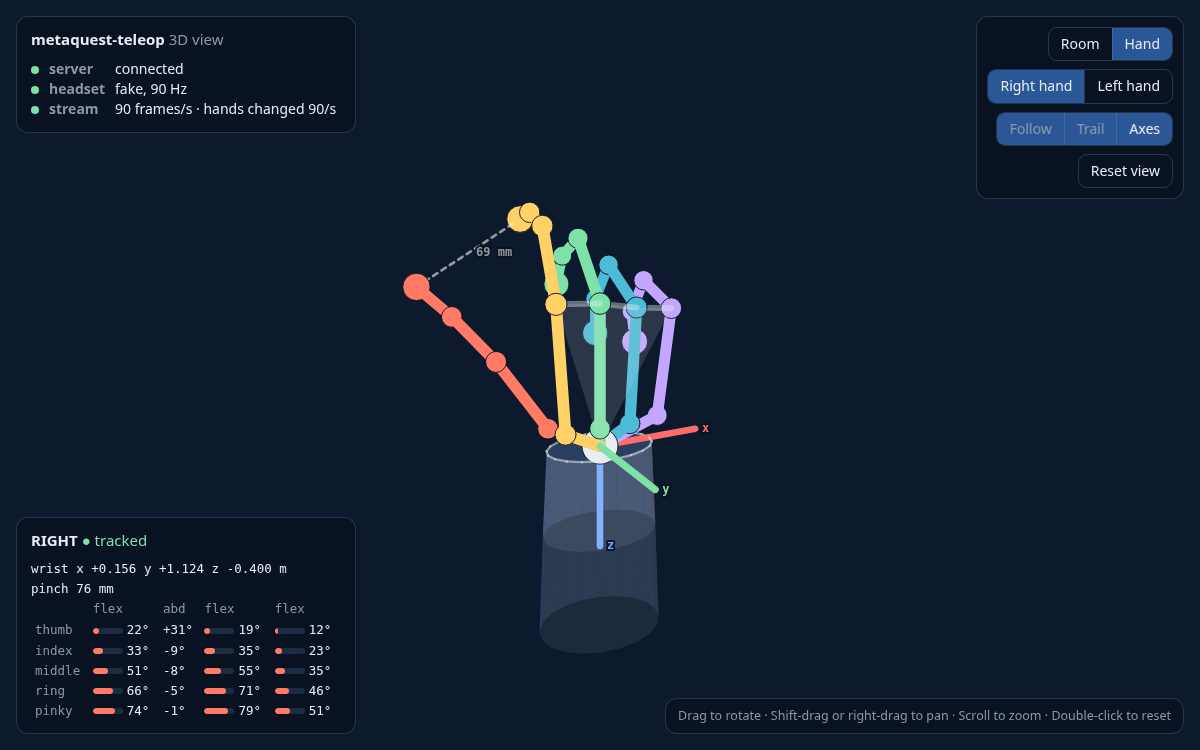
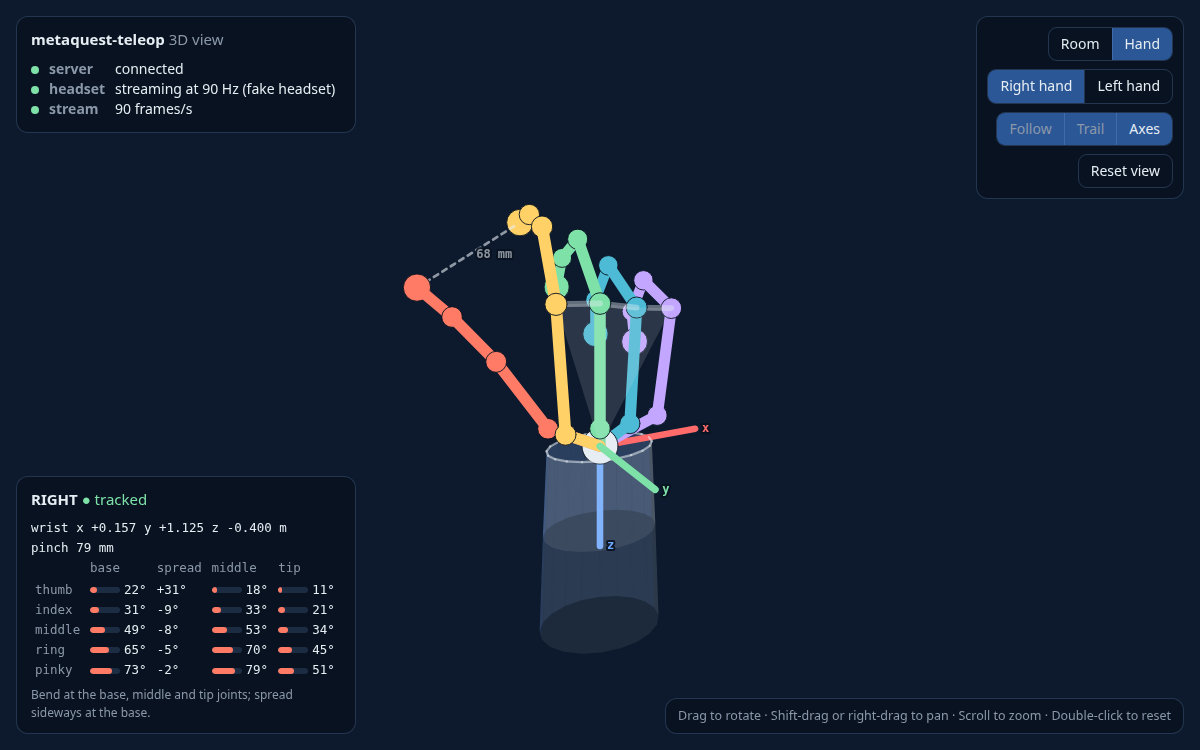
Plain words everywhere: API page, angles, dashboard and 3D view
- API page: no letter badges (C, M, A, P) in the outline; only the classes
  and names you use, each with one line saying what it is
- joint angles described as base, spread, middle and tip, with the medical
  names (CMC, MCP, PIP, DIP, flexion, abduction) given once, in the data page
- dashboard and 3D view: "streaming at 90 Hz" instead of "XR session ...,
  local-floor"; no "gap p95" or "hands changed"; plain angle headers
- diagram and docstrings without WebXR, adb reverse, WebSocket, local-floor

diff --git a/src/metaquest_teleop/view.html b/src/metaquest_teleop/view.html
@@ -50,6 +50,7 @@
   table.angles th { color: var(--dim); font-weight: 500; text-align: left; padding: 0 4px 2px; }
   table.angles td { padding: 1px 4px; white-space: nowrap; }
   table.angles td:first-child { color: var(--dim); }
+  .caption { color: var(--dim); font-size: 12px; margin-top: 6px; }
   .bar {
     display: inline-block; width: 30px; height: 6px; margin-right: 4px; border-radius: 3px;
     background: rgba(138, 180, 248, 0.16); vertical-align: middle; overflow: hidden;
@@ -103,9 +104,10 @@
   <div class="mono" id="hand-wrist">wrist –</div>
   <div class="mono" id="hand-pinch">pinch –</div>
   <table class="angles mono">
-    <thead><tr><th></th><th>flex</th><th>abd</th><th>flex</th><th>flex</th></tr></thead>
+    <thead><tr><th></th><th>base</th><th>spread</th><th>middle</th><th>tip</th></tr></thead>
     <tbody id="angles"></tbody>
   </table>
+  <div class="caption">Bend at the base, middle and tip joints; spread sideways at the base.</div>
 </div>
 
 <div class="panel" id="hint">Drag to rotate · Shift-drag or right-drag to pan · Scroll to zoom · Double-click to reset</div>
@@ -473,12 +475,13 @@ function updatePanels() {
   if (status && status.use_adb) setLine("usb", status.usb_ok || status.page ? "ok" : "bad", status.usb);
 
   if (!status || !status.page) setLine("headset", "warn", "waiting for the page");
-  else if (status.session === "started") setLine("headset", fresh() ? "ok" : "warn", `${status.mode}, ${status.fps} Hz`);
+  else if (status.session === "started") setLine("headset", fresh() ? "ok" : "warn",
+    `streaming at ${status.fps} Hz` + (status.mode === "fake" ? " (fake headset)" : ""));
   else setLine("headset", "warn", "page open: press Start in the headset");
 
   if (!everFrame) setLine("stream", "", "no frames yet");
   else if (!fresh()) setLine("stream", "warn", `no frames for ${age.toFixed(1)} s`);
-  else setLine("stream", "ok", status ? `${status.hz} frames/s · hands changed ${status.changed_hz}/s` : "receiving");
+  else setLine("stream", "ok", status ? `${status.hz} frames/s` : "receiving");
 
   const hand = frame && frame[state.side];
   const side = state.side.toUpperCase();

diff --git a/src/metaquest_teleop/server.py b/src/metaquest_teleop/server.py
@@ -57,24 +57,24 @@ class QuestHands:
 
     ::
 
-        with QuestHands() as quest:      # then open http://localhost:8012 in the Quest browser
+        with QuestHands() as quest:      # then press Start in the headset
             frame = quest.wait()         # the next frame from the headset
             frame.right.wrist.position   # metres
             frame.right.angles           # (5, 4) radians
 
-    The server listens on 127.0.0.1 only: the headset reaches it through ``adb reverse``, and
-    nothing else on the network can inject frames. Pass ``host="0.0.0.0"`` to change that.
+    Only this computer can connect (the headset comes in through the USB cable), so nothing
+    else on the network can send it frames.
 
     Parameters
     ----------
     port
-        Port of the page and the stream: the headset opens ``http://localhost:<port>``.
+        The port: the headset opens ``http://localhost:<port>``.
     adb
-        Keep the USB link up with ``adb reverse`` while no page is connected.
+        Set up the USB link to the headset automatically, with ``adb``.
     udp
-        ``(host, port)`` to also send every frame to, as one JSON datagram; None for no UDP.
+        ``(host, port)``: also send every frame there as JSON, over UDP. None for no UDP.
     host
-        The interface to listen on.
+        Who can connect: ``"127.0.0.1"`` is only this computer, ``"0.0.0.0"`` the network.
 
     Attributes
     ----------
@@ -181,11 +181,19 @@ class QuestHands:
             return self._latest if self.frames > seen else None
 
     def on_frame(self, callback: Callable[[Frame], None]) -> None:
-        """Call `callback(frame)` for every frame, on the receiving thread; keep it fast."""
+        """Call ``callback(frame)`` for every frame.
+
+        It runs in the background thread that receives the frames, so keep it fast.
+        """
         self._callbacks.append(callback)
 
     def rates(self) -> dict:
-        """frames/s over the last second, of which carried changed hand data, interval p95, age."""
+        """Statistics of the stream, as a dict.
+
+        ``hz``: frames in the last second. ``changed_hz``: how many of them carried new hand
+        data. ``interval_p95_ms``: time between frames, in ms, that 95% of frames beat.
+        ``age_ms``: age of the newest frame, in ms.
+        """
         now = time.perf_counter()
         with self._cond:
             arrivals = list(self._arrivals)
@@ -334,12 +342,11 @@ class QuestHands:
             state = msg.pop("session")
             self.headset.update(msg, session=state)
             if state == "started":
-                self._event(f"XR session started: {msg.get('mode')}, {msg.get('fps')} Hz, "
-                            f"{msg.get('space')}")
+                self._event(f"streaming started, {msg.get('fps')} Hz")
             elif state == "framerate":
                 self._event(f"frame rate now {msg.get('fps')} Hz")
             else:
-                self._event("XR session ended")
+                self._event("streaming stopped")
         if "stats" in msg:
             self.headset["stats"] = msg["stats"]
         if "error" in msg:

diff --git a/src/metaquest_teleop/dashboard.py b/src/metaquest_teleop/dashboard.py
@@ -55,8 +55,8 @@ def _status(quest: QuestHands) -> Panel:
     if not quest.connected:
         headset = Text.assemble(_dot(None), "waiting for the page to connect")
     elif info.get("session") == "started":
-        headset = Text.assemble(_dot(streaming), f"XR session: {info.get('mode')}, ",
-                                (f"{info.get('fps')} Hz", "bold"), f", {info.get('space')}")
+        headset = Text.assemble(_dot(streaming), "streaming at ", (f"{info.get('fps')} Hz", "bold"),
+                                " (fake headset)" if info.get("mode") == "fake" else "")
     else:
         headset = Text.assemble(_dot(None), "page open: press Start in the headset")
     grid.add_row("headset", headset)
@@ -66,11 +66,8 @@ def _status(quest: QuestHands) -> Panel:
     elif not streaming:
         stream = Text(f"no frames for {rates['age_ms'] / 1000:.1f} s  ({quest.frames:,} received)", style="yellow")
     else:
-        p95 = rates["interval_p95_ms"]
         stream = Text.assemble((f"{rates['hz']} frames/s", "bold green"),
-                               f"   hands changed in {rates['changed_hz']}/s",
-                               f"   gap p95 {p95:.1f} ms" if p95 is not None else "",
-                               (f"   {quest.frames:,} frames", "dim"))
+                               (f"   {quest.frames:,} received", "dim"))
     grid.add_row("stream", stream)
     if quest.udp is not None:
         grid.add_row("UDP", f"every frame as JSON to {quest.udp[0]}:{quest.udp[1]}")
@@ -93,10 +90,11 @@ def _hand(side: str, hand: Hand | None) -> Panel:
     info.add_row("pinch", f"{hand.pinch * 1000:.0f} mm")
 
     angles = Table(box=None, padding=(0, 1), header_style="dim", show_edge=False,
-                   caption="thumb: CMC, MCP, IP   fingers: MCP, PIP, DIP", caption_style="dim")
+                   caption="degrees of bend; spread is sideways at the base",
+                   caption_style="dim")
     angles.add_column("")
-    for name in ("flex", "abd", "flex", "flex"):
-        angles.add_column(name, justify="right" if name == "abd" else "left")
+    for name in ("base", "spread", "middle", "tip"):
+        angles.add_column(name, justify="right" if name == "spread" else "left")
     for finger, row in zip(FINGERS, np.degrees(hand.angles)):
         angles.add_row(finger, f"{_bar(row[0])}{_deg(row[0])}", _deg(row[1], True),
                        f"{_bar(row[2])}{_deg(row[2])}", f"{_bar(row[3])}{_deg(row[3])}")

diff --git a/src/metaquest_teleop/hands.py b/src/metaquest_teleop/hands.py
@@ -88,7 +88,7 @@ def _quat_multiply(a: np.ndarray, b: np.ndarray) -> np.ndarray:
 
 @dataclass(frozen=True, eq=False)
 class Pose:
-    """A position and an orientation, in the session's ``local-floor`` space."""
+    """A position and an orientation, in the room's coordinates (x right, y up, -z forward)."""
 
     #: (3,) position, metres.
     position: np.ndarray
@@ -136,13 +136,15 @@ class Hand:
 
     @cached_property
     def angles(self) -> np.ndarray:
-        """(5, 4) joint angles, radians: one row per finger, thumb to pinky.
+        """(5, 4) joint angles in radians: one row per finger, thumb to pinky.
 
-        Fingers: MCP flexion, MCP abduction, PIP flexion, DIP flexion. Thumb: CMC flexion,
-        CMC abduction (both of the metacarpal against the wrist), MCP flexion, IP flexion.
-        Flexion is positive towards the palm and abduction positive towards the thumb side,
-        on both hands. Each is the bend of a bone's direction against its parent joint's
-        axes, so a straight finger reads 0 and the thumb's CMC is not 0 at rest.
+        Columns: bend at the base of the finger, sideways spread at the base, bend at the
+        middle joint, bend at the joint nearest the tip. Bending towards the palm and spreading
+        towards the thumb are positive, on both hands. A straight finger reads 0; the thumb's
+        base does not, since it is measured against the wrist.
+
+        The medical names, used in :data:`ANGLE_NAMES`: thumb CMC flexion, CMC abduction, MCP
+        flexion, IP flexion; fingers MCP flexion, MCP abduction, PIP flexion, DIP flexion.
         """
         out = np.empty((5, 4))
         for col, bend in ((0, 0), (2, 1), (3, 2)):
@@ -161,7 +163,10 @@ class Hand:
 
     @cached_property
     def local_quaternions(self) -> np.ndarray:
-        """(25, 4) each joint's rotation relative to its parent joint (PARENT); the wrist's is absolute."""
+        """(25, 4) each joint's rotation relative to the joint before it, towards the wrist.
+
+        The wrist's is its rotation in the room.
+        """
         q = self.quaternions / np.linalg.norm(self.quaternions, axis=-1, keepdims=True)
         parent = q[[max(p, 0) for p in PARENT]] * np.array([-1.0, -1.0, -1.0, 1.0])
         local = _quat_multiply(parent, q)

diff --git a/docs/conf.py b/docs/conf.py
@@ -28,7 +28,9 @@ html_favicon = "_static/favicon.svg"
 # Tooltips of API objects without their synopsis, which the theme joins with an em dash.
 # The page outline lists classes, functions and attributes, not their parameters and fields.
 object_description_options = [
-    ("py:.*", {"generate_synopses": None, "include_fields_in_toc": False}),
+    # No letter badges (C, M, A, P...) in front of the names: the page says what each one is.
+    ("py:.*", {"generate_synopses": None, "include_fields_in_toc": False,
+               "toc_icon_class": None, "toc_icon_text": None}),
     ("py:parameter", {"include_in_toc": False}),
 ]
 exclude_patterns = ["_build"]

diff --git a/docs/api/index.md b/docs/api/index.md
@@ -1,83 +1,50 @@
 # API
 
-Everything starts with `from metaquest_teleop import QuestHands`.
+Everything you need is in `metaquest_teleop`. Start with `QuestHands`; each frame it gives you
+is a `Frame`, which holds up to two `Hand`s, whose joints are `Pose`s.
 
-## The stream
+Below, *method* is something you call with `()`, like `quest.wait()`; *property* and
+*attribute* are values you read, like `hand.pinch`.
+
+## QuestHands: the stream
 
 ```{eval-rst}
 .. autoclass:: metaquest_teleop.QuestHands
-   :members: start, stop, wait, latest, on_frame, rates, url, view_url, connected
+   :members: wait, latest, on_frame, start, stop, url, view_url, connected, rates
 ```
 
-## Frames and hands
+## Frame: one moment
 
 ```{eval-rst}
 .. autoclass:: metaquest_teleop.Frame
    :members:
+```
 
+## Hand: one hand
+
+```{eval-rst}
 .. autoclass:: metaquest_teleop.Hand
    :members:
+```
 
+## Pose: a position and an orientation
+
+```{eval-rst}
 .. autoclass:: metaquest_teleop.Pose
    :members:
 ```
 
-## Constants
-
-All but `PARENT` are importable from `metaquest_teleop`.
+## Names
 
 ```{eval-rst}
 .. autodata:: metaquest_teleop.hands.JOINTS
    :no-value:
 
-.. autodata:: metaquest_teleop.hands.PARENT
+.. autodata:: metaquest_teleop.hands.ANGLE_NAMES
    :no-value:
 
 .. autodata:: metaquest_teleop.hands.FINGERS
    :no-value:
 
-.. autodata:: metaquest_teleop.hands.ANGLE_NAMES
-   :no-value:
-
 .. autodata:: metaquest_teleop.server.DEFAULT_PORT
-```
-
-## Wire format: `metaquest_teleop.hands`
-
-```{eval-rst}
-.. autofunction:: metaquest_teleop.hands.decode
-
-.. autofunction:: metaquest_teleop.hands.encode
-
-.. autofunction:: metaquest_teleop.hands.rotations
-
-.. autodata:: metaquest_teleop.hands.FRAME_BYTES
-
-.. autodata:: metaquest_teleop.hands.MAGIC
-```
-
-## USB link: `metaquest_teleop.server`
-
-```{eval-rst}
-.. autofunction:: metaquest_teleop.server.adb_reverse
-```
-
-## Fake headset: `metaquest_teleop.fake`
-
-```{eval-rst}
-.. autofunction:: metaquest_teleop.fake.stream
-
-.. autofunction:: metaquest_teleop.fake.synthetic_hand
-
-.. autofunction:: metaquest_teleop.fake.pose_at
-
-.. autofunction:: metaquest_teleop.fake.quaternion
-```
-
-## Dashboard: `metaquest_teleop.dashboard`
-
-```{eval-rst}
-.. autofunction:: metaquest_teleop.dashboard.render
-
-.. autofunction:: metaquest_teleop.dashboard.run
 ```

diff --git a/docs/data.md b/docs/data.md
@@ -22,18 +22,24 @@ Each hand has 25 joints, in this order (`metaquest_teleop.JOINTS`):
 | 15–19 | ring |
 | 20–24 | pinky |
 
-Each finger goes from its base to its tip, so the tips are 4, 9, 14, 19 and 24. Each joint's own
-axes: −z along the bone towards the fingertip, −y out of the palm.
+Each finger goes from its base to its tip, so the tips are 4, 9, 14, 19 and 24. Each joint
+also has an orientation: its −z axis points along the bone towards the fingertip, and its −y
+axis out of the palm.
 
 ## Angles
 
 `hand.angles` has one row per finger, thumb to pinky, and four columns, in radians:
 
-| | 0 | 1 | 2 | 3 |
-|---|---|---|---|---|
-| thumb | CMC flexion | CMC abduction | MCP flexion | IP flexion |
-| fingers | MCP flexion | MCP abduction | PIP flexion | DIP flexion |
+| Column | Angle |
+|---|---|
+| 0 | bend at the base of the finger |
+| 1 | spread: how far the finger moves sideways, at its base |
+| 2 | bend at the middle joint |
+| 3 | bend at the joint nearest the tip |
 
-Flexion is positive when bending towards the palm, abduction when moving towards the thumb.
-An open, flat hand reads about 0, except the thumb's CMC. `hand.angle_dict` gives the same
-angles by name, such as `index_pip_flex`.
+Bending towards the palm and spreading towards the thumb are positive, on both hands. An open,
+flat hand reads about 0 everywhere, except the base of the thumb.
+
+`hand.angle_dict` gives the same angles by name, such as `index_pip_flex`. The names use the
+medical terms: *flex* is bend and *abd* is spread; the joints are, from the base, CMC, MCP and
+IP for the thumb, and MCP, PIP and DIP for the fingers.

diff --git a/docs/view.md b/docs/view.md
@@ -6,7 +6,7 @@ with the headset or with the fake one. While `metaquest-teleop` (or your script)
 
 ## Hand
 
-One hand in its own frame: the wrist stays still and only the fingers move. Use it to check
+The hand stays still in the middle of the screen and only the fingers move. Use it to check
 the fingers, for example before driving a robot hand.
 
 ![The Hand view: a right hand on its forearm, with its axes and joint angles](_static/view-hand.png)
@@ -25,7 +25,8 @@ wrist's path over the last two seconds.
 - Axes: x red, y green, z blue.
 - The dashed line is the pinch: thumb tip to index tip, in millimetres.
 - The panels show the connection and, for the selected hand, its wrist position, pinch and
-  20 joint angles.
+  joint angles: how much each joint bends (base, middle, tip) and how far the finger spreads
+  sideways. See [the data](data.md#angles).
 
 ## Controls
 

diff --git a/README.md b/README.md
@@ -19,8 +19,9 @@ get both wrists, 25 joints and 20 joint angles per hand. Nothing to install on t
 pip install metaquest-teleop
 ```
 
-You also need `adb` (Ubuntu: `sudo apt install adb`, macOS: `brew install --cask
-android-platform-tools`), and, once, on the headset: developer mode and hand tracking on.
+You also need `adb`, the tool that talks to the headset over USB (Ubuntu: `sudo apt install
+adb`, macOS: `brew install --cask android-platform-tools`), and, once, on the headset:
+developer mode and hand tracking on.
 [Get started](https://vigno0405.github.io/MetaQuestTeleop/start.html) has the details.
 
 ## Run

diff --git a/docs/python.md b/docs/python.md
@@ -96,5 +96,6 @@ while True:
         print(frame["right"]["wrist"]["position"])
 ```
 
-Each message is `frame.to_dict()`: `seq`, `time`, `received`, `head`, and `left` and `right`
-with `wrist`, `angles` (by name), `pinch` and the 25 `joints` as (x, y, z, qx, qy, qz, qw).
+Each message holds one frame: `left` and `right` (each `null` while not tracked) with the
+`wrist` position and orientation, the `angles` by name, the `pinch`, and the 25 `joints` as
+x, y, z position and qx, qy, qz, qw orientation. It also has `received`, the time it arrived.

diff --git a/CHANGELOG.md b/CHANGELOG.md
@@ -6,6 +6,7 @@
   a hand view and a room view, with the forearm, joint angles and pinch.
 - `metaquest-teleop --view` opens it; `QuestHands.view_url` gives its address.
 - `metaquest-teleop-fake --hands right` (or `left`) fakes a single hand.
+- Plain labels in the dashboard: joint angles as base, spread, middle and tip.
 - Documentation at https://vigno0405.github.io/MetaQuestTeleop/.
 
 ## 0.1.0 (2026-11-12)
